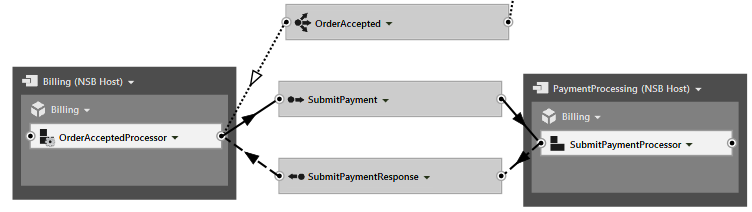
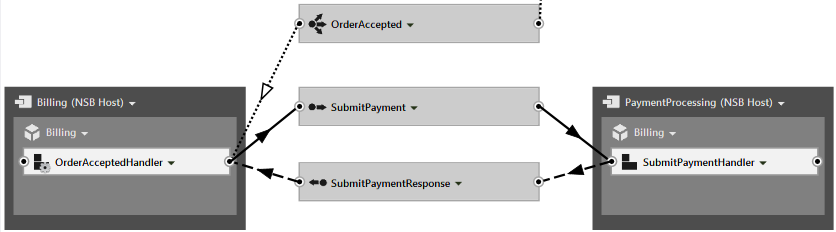
Updated Customizing-Extending ServiceMatrix
Updated for new code style and naming convention of handlers.

Changed region(s): [[0.0, 0.2547, 1.0, 1.0], [0.3364, 0.0, 0.7035, 0.2547]]

diff --git a/Content/ServiceMatrix/customizing-extending.md b/Content/ServiceMatrix/customizing-extending.md
@@ -66,7 +66,7 @@ The design of the generated message handlers use partial methods to provide oppo
 ##NServiceBus Component Code 
 The code below was generated by ServiceMatrix for component that handles a `SubmitOrder` message and publishes a `Orderaccepted` event.  It looks like this on the canvas:
 
-![SubmitOrderProcessing Component](images/servicematrix-orderprocessing.png)
+![SubmitOrderHandler Component](images/servicematrix-orderprocessing.png)
 
 ###The Dynamic Partial Class
 The dynamic code generator has created a handler for the `SubmitOrder` method.  In the handler a  `HandleImplementation` partial method for the message is invoked.  As a partial method, it is stubbed out in one class but implemented separately in the other partial class file.  The `Bus` property  provides the code with access to the `Bus` object.
@@ -74,7 +74,7 @@ The dynamic code generator has created a handler for the `SubmitOrder` method.  
 ```C#
 namespace OnlineSales.Sales
 {
-    public partial class SubmitOrderProcessor : IHandleMessages<SubmitOrder>
+    public partial class SubmitOrderHandler : IHandleMessages<SubmitOrder>
     {
 		public void Handle(SubmitOrder message)
 		{
@@ -104,7 +104,11 @@ namespace OnlineSales.Sales
             
           
   			var orderAccepted = new OnlineSales.Contracts.Sales.OrderAccepted();
-            Bus.Publish(orderAccepted);
+
+			//Access inbound messages and set outbound message properties
+			//orderAccepted.ReferenceNumber = message.OrderID;
+            
+			Bus.Publish(orderAccepted);
         }
 
     }
@@ -117,7 +121,7 @@ Code is generated for both incoming and outbound messages in your design.
 In the example above, the code generator has stubbed out a simple implementation of the partial `HandleImplementation` method for the  `SubmitOrder` command message.  This is the place to put any custom handler code.  
 
 **Outbound Messages**
-In the example above the code generator has also created the code to instantiate a new `OrderAccepted` event and publish it using the bus automatically when the the `SubmitOrder` message is handled. The comments indicate this code was generated by ServiceMatrix.  This code can be completedly customized.  If the design doesn't require the event to be published in response to the inbound message, it can be altered. 
+In the example above the code generator has also created the code to instantiate a new `OrderAccepted` event and publish it using the bus automatically when the the `SubmitOrder` message is handled. The comments indicate this code was generated by ServiceMatrix.  This code can be completedly customized.  If the design doesn't require the event to be published in response to the inbound message, it can be removed. 
 ##Adding Messages to the Design
 The code generator will create code for handling and sending any messages that are in your design *the first time you build the solution*.  In the sample above, the code for handling the `SubmitOrder` message and publishing the `OrderAccepted` event was created because both of them were present in the ServiceMatrix design at initial build. 
  
@@ -135,33 +139,35 @@ The code below is based on a saga designed in ServiceMatrix that correlates the 
 ![Billing Saga](images/servicematrix-billingsagaandpaymntcanvas.png)
 
 ##Designating the Startup Messages
-Depending on the design, one or more messages can start a saga.  If the saga is handling multiple messages, you will be [prompted in ServiceMatrix](images/servicematrix-sagastarter.png "Designated Saga Starters") to indicate which messages will start the saga.  The partial class that contains the component definition will be generated to extent the NServiceBus.Saga base class and will use the marker interfaces to indicate the start-up message types and the message types that the saga will handle.  
+Depending on the design, one or more messages can start a saga.  If the saga is handling multiple messages, you will be [prompted in ServiceMatrix](images/servicematrix-sagastarter.png "Designated Saga Starters") to indicate which messages will start the saga.  The partial class that contains the component definition will be generated to extent the `NServiceBus.Saga` base class and will use the marker interfaces to indicate the start-up message types and the message types that the saga will handle.  
 
-The code below is generated for example saga class above. This is regenerated with each build and is not safe to edit.
+The code snippet below is generated for example saga class above. This is regenerated with each build and is not safe to edit.
 ```C#
 namespace OnlineSales.Billing
 {
-    public partial class OrderAcceptedProcessor : Saga<OrderAcceptedProcessorSagaData>, IOrderAcceptedProcessor, ServiceMatrix.Shared.INServiceBusComponent, IAmStartedByMessages<OrderAccepted>, IHandleMessages<SubmitPaymentResponse>
+    public partial class OrderAcceptedHandler : Saga<OrderAcceptedHandlerSagaData>, IOrderAcceptedHandler, ServiceMatrix.Shared.INServiceBusComponent, IAmStartedByMessages<OrderAccepted>, IHandleMessages<SubmitPaymentResponse>
     {
+		
 		public void Handle(OrderAccepted message)
 		{
 			......
 ```
-Once again this is a partial class.  In the other partial class definition it is possible to manually add additional message types that the saga will handle. 
+Once again this is a partial class.  In the other partial class definition it is possible to manually add additional message types that the saga will handle.  If you add new messages using the canvas, ServiceMatrix will add them to the code above automatically next time you rebuild the solution. 
 ##Saga Data
-The Saga data class defines the persisted data that is available inside handlers each time the saga is activated.  The Saga data is implemented as a partial class in the same dynamic file as the saga handler class itself. The generated saga data design includes default properties for a unique ID and the storage of any message that is handled.  It also stores information about the `Originator` of the message that started the saga and the Id of that message. 
+The Saga data class defines the persisted data that is available inside handlers each time the saga is activated.  The generated sga data is implemented as a partial class in the same dynamic file as the saga handler class itself. This default generated saga data design includes default properties for a unique ID and the storage of any message that is handled.  It also stores information about the `Originator` of the message that started the saga and the NServiceBus assigned Id of that message. 
 ```C#
 
-public partial class OrderAcceptedProcessorSagaData : IContainSagaData
+public partial class OrderAcceptedHandlerSagaData : IContainSagaData
      {
            public virtual Guid Id { get; set; }
            public virtual string Originator { get; set; }
            public virtual string OriginalMessageId { get; set; }
+
            public virtual OrderAccepted OrderAccepted { get; set; }
            public virtual SubmitPaymentResponse SubmitPaymentResponse { get; set; }
     }
 ```
-This generated file is dynamic so there is a separate file containing a place to modify the partial class.  Custom properties are easily added here.  Notice how in the example the OrderID has been added.  It is a unique identifier for the saga data and was marked with the `[Unique]` attribute.
+In keeping with the code separation strategy, this generated dynamic file has a separate file containing a place to modify the partial class.  Custom properties are easily added here.  Notice how in the example the `OrderID` has been added.  It is a unique identifier for the saga data and is marked with the `[Unique]` attribute.
 
 ```C#
 namespace OnlineSales.Billing
@@ -178,7 +184,7 @@ namespace OnlineSales.Billing
 The message handling code of the Saga is implemented very much like the [handler component code above](#nservicebus-component-code).  The code will implement a message handler in the saga for each of the messages handled in the ServiceMatrix design.   Similarly, for each handled message a virtual method is created in the form `HandleImplementation(<messagetype>)`.   These virtual methods are invoked and should be implememented and customized in the custom code partial class.   View the Saga code by select the `View Code` option on the component in the canvas. 
 
 ###Example Saga Code
-The following sample customizes the saga code.  It handles an `OrderAccepted` event, stores the `OrderID` then creates and sends the `SubmitPayment` command.  The saga then handles the `SubmitPaymentResponse` message and stores the `PaymentAuthorizationCode` in the saga data.
+The following is a sample of customized saga code.  It handles an `OrderAccepted` event, stores the `OrderID` then creates and sends the `SubmitPayment` command.  The saga then handles the `SubmitPaymentResponse` message and stores the `PaymentAuthorizationCode` in the saga data.
 
 ```C#
 namespace OnlineSales.Billing
@@ -206,12 +212,11 @@ namespace OnlineSales.Billing
 
         partial void HandleImplementation(Internal.Messages.Billing.SubmitPaymentResponse message)
         {
-            Data.PaymentAuthorizationCode = message.AuthorizationCode;
+			//store the authorization code             
+			Data.PaymentAuthorizationCode = message.AuthorizationCode;
             
             System.Console.WriteLine("Payment response received for order {0} with auth code {1}", message.AuthorizationCode, Data.OrderID);
-
-            Data.PaymentAuthorizationCode = message.AuthorizationCode;
-                                    
+                                   
         }
 
         partial void AllMessagesReceived()
@@ -235,9 +240,9 @@ The `AllMessagesReceived` is a convenient partial method.  As part of the dynami
 ##Custom Saga Finding Logic
 When a saga handles a message it must be able to correlate the message to a unique saga instance in order to retrieve the correct saga data. It does this by mapping designated properties of the message to properties of the saga data.  ServiceMatrix generates default code for this mapping that can be modified.  In the [drop-down menu ](images/servicematrix-configuresaga.png)for the saga component is an option for `Configure Saga`. The provided partial class overrides the `ConfigureHowToFindSaga` method.  The comments indicate how it can be modified for a specific situation. 
 
-When a saga uses a Bus.Send to send a request message and later handles a reply, a custom mapping is not required.  This is because the framework will put a unique saga ID in the header of the quest and it will also be in put the reply message to be used for correlation.   This automatic correlation is a nice convenience. 
+When a saga uses a Bus.Send to send a request message and later handles a reply, a custom mapping is not required.  This is because the framework will put a unique saga ID in the header of the request message.  The recipient of the message will automatically put the same ID in the reply message to be used for correlation.   This automatic correlation is a nice convenience when doing request-response or full-duplex messaging.   
 
-Events received by a saga must have a map so they will correlate correctly.  In the example below, an `OrderAccepted` and `BillingCompleted` are mapped to saga data by their `OrderID` property. 
+When using publish-subscribe messaging the events received by a saga must have a map so they will correlate correctly.  In the example below, an `OrderAccepted` and `BillingCompleted` are mapped to saga data by their `OrderID` property. 
 
 ```C#
 public partial class OrderAcceptedHandler

diff --git a/Content/ServiceMatrix/getting-started-sagasfullduplex-2.0.md b/Content/ServiceMatrix/getting-started-sagasfullduplex-2.0.md
@@ -85,7 +85,7 @@ When you select  **OK**, ServiceMatrix creates the `SubmitPaymentResponse` messa
 
 Since the `OrderAcceptedHandler` is now a saga, notice the icon has changed slightly. ServiceMatrix has also generated the code needed to support a saga implementation.  The framework takes care of persisting the message data from each message processed by the saga.  The generated code provides ways to safely integrate your own custom code.   
 
-NOTE: If you built the solution prior to adding creating the response message, you will be prompted with the user code changes necessary to send the reply from the `SubmitPaymentProcessor`.   Open the code for the `SubmitPaymentProcessor` and paste it into the `SubmitPayment' handler similar to what was done earlier in this example. 
+NOTE: If you built the solution prior to creating the response message, you will be prompted with the user code changes necessary to send the reply from the `SubmitPaymentProcessor`.   Open the code for the `SubmitPaymentProcessor` and paste it into the `SubmitPayment` handler. 
 
 ##Modifying the Saga Code
 [Earlier in this article](#modifying-the-orderacceptedhandler "Modifying the handler to send a message"), we modified the `OrderAcceptedHandler` code so it would send the `SubmitPayment` command. 
